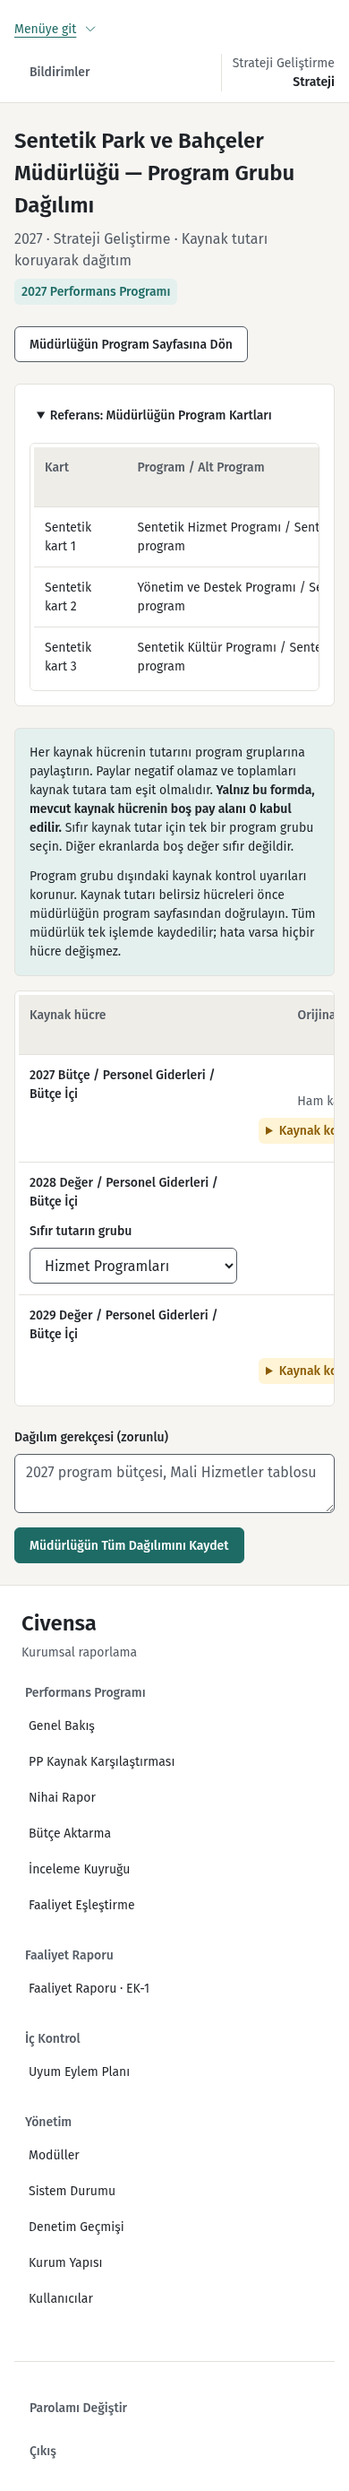
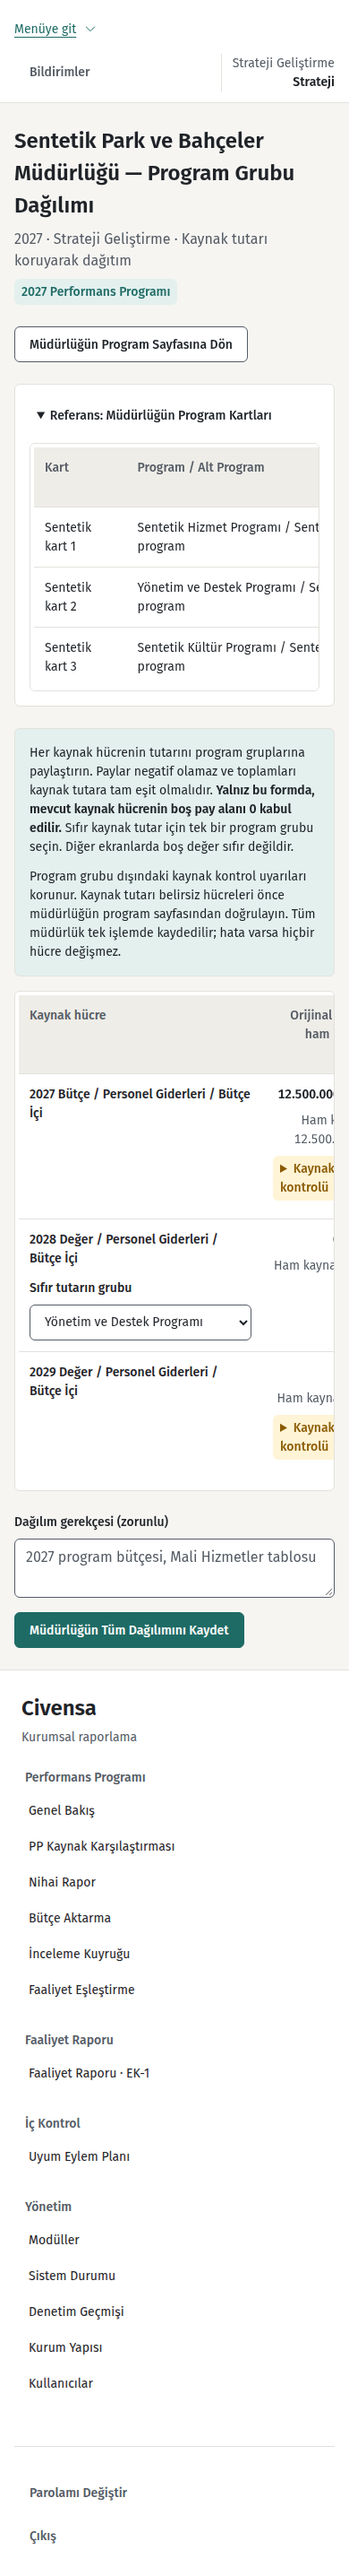
Capture readable zero-group option

diff --git a/tests/test_economic_split_design.py b/tests/test_economic_split_design.py
@@ -246,6 +246,8 @@ def test_browser_synthetic_evidence(scenes, strategy_client, browser, width, sta
         if directory:
             output = Path(directory) / f'{"before" if before else "after"}-{state}-{width}.png'
             output.parent.mkdir(parents=True, exist_ok=True)
+            if not before and state == 'populated':
+                page.locator('[name=zero_group_602]').select_option('management')
             page.screenshot(path=str(output), full_page=True)
             assert output.stat().st_size <= 1_500_000
             if state == 'populated':

diff --git a/docs/design/rollout/civ-153/README.md b/docs/design/rollout/civ-153/README.md
@@ -17,8 +17,9 @@ PNG'ler tam sayfadır ve her biri 1,5 MB sınırının altındadır.
 | `{before,after}-server-error-{1440,390}.png` | Sunucu hatasıyla yeniden çizilen form: gönderilen paylar, fingerprint, sıfır grubu ve çok satırlı gerekçe korunur. |
 | `{before,after}-blocked-{1440,390}.png` | Kapalı dönem / incelemedeki paket uyarısı ve devre dışı alanlar. |
 
-Sıfır tutar grup seçicisi 1440 ve 390 px'de tüm seçenek metnini gösterir; tarayıcı
-kontrolü her seçeneği canvas ölçümüyle doğrular.
+`after-populated-{1440,390}.png` en uzun seçeneği, “Yönetim ve Destek Programı”nı,
+seçili gösterir. Sıfır tutar grup seçicisinin tüm seçenekleri her iki genişlikte
+canvas ölçümüyle doğrulanır.
 
 Görünür metin değişikliği yoktur. Boş payların `value=""` değerleri ve `0,00`
 yer tutucuları korunur; belirsiz kaynak sıfıra çevrilmez.
